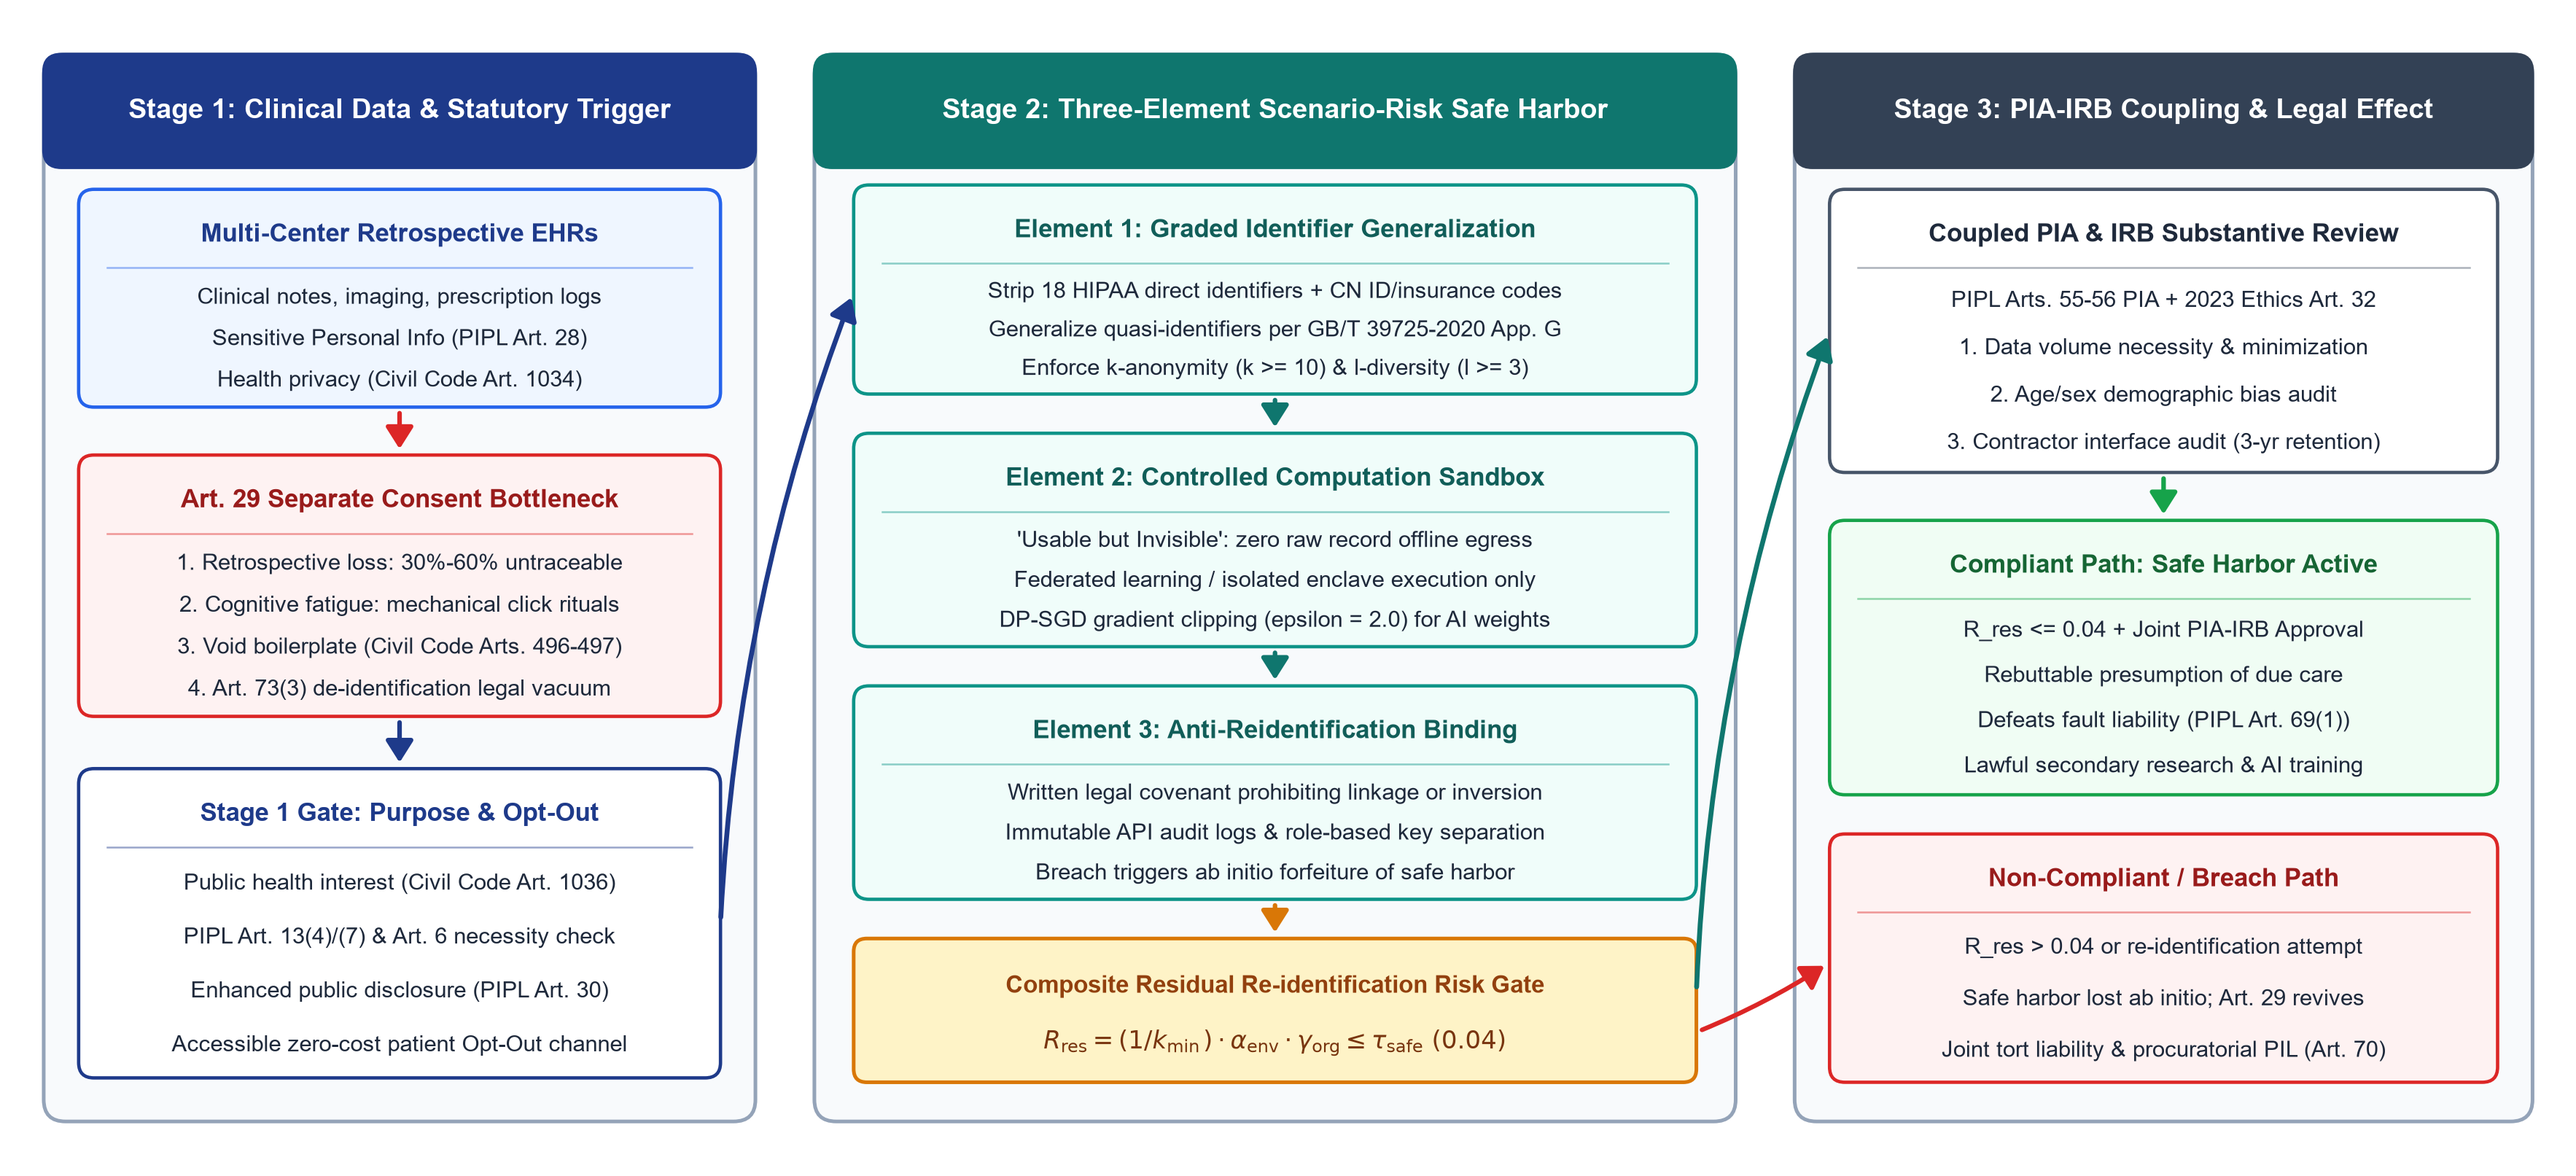
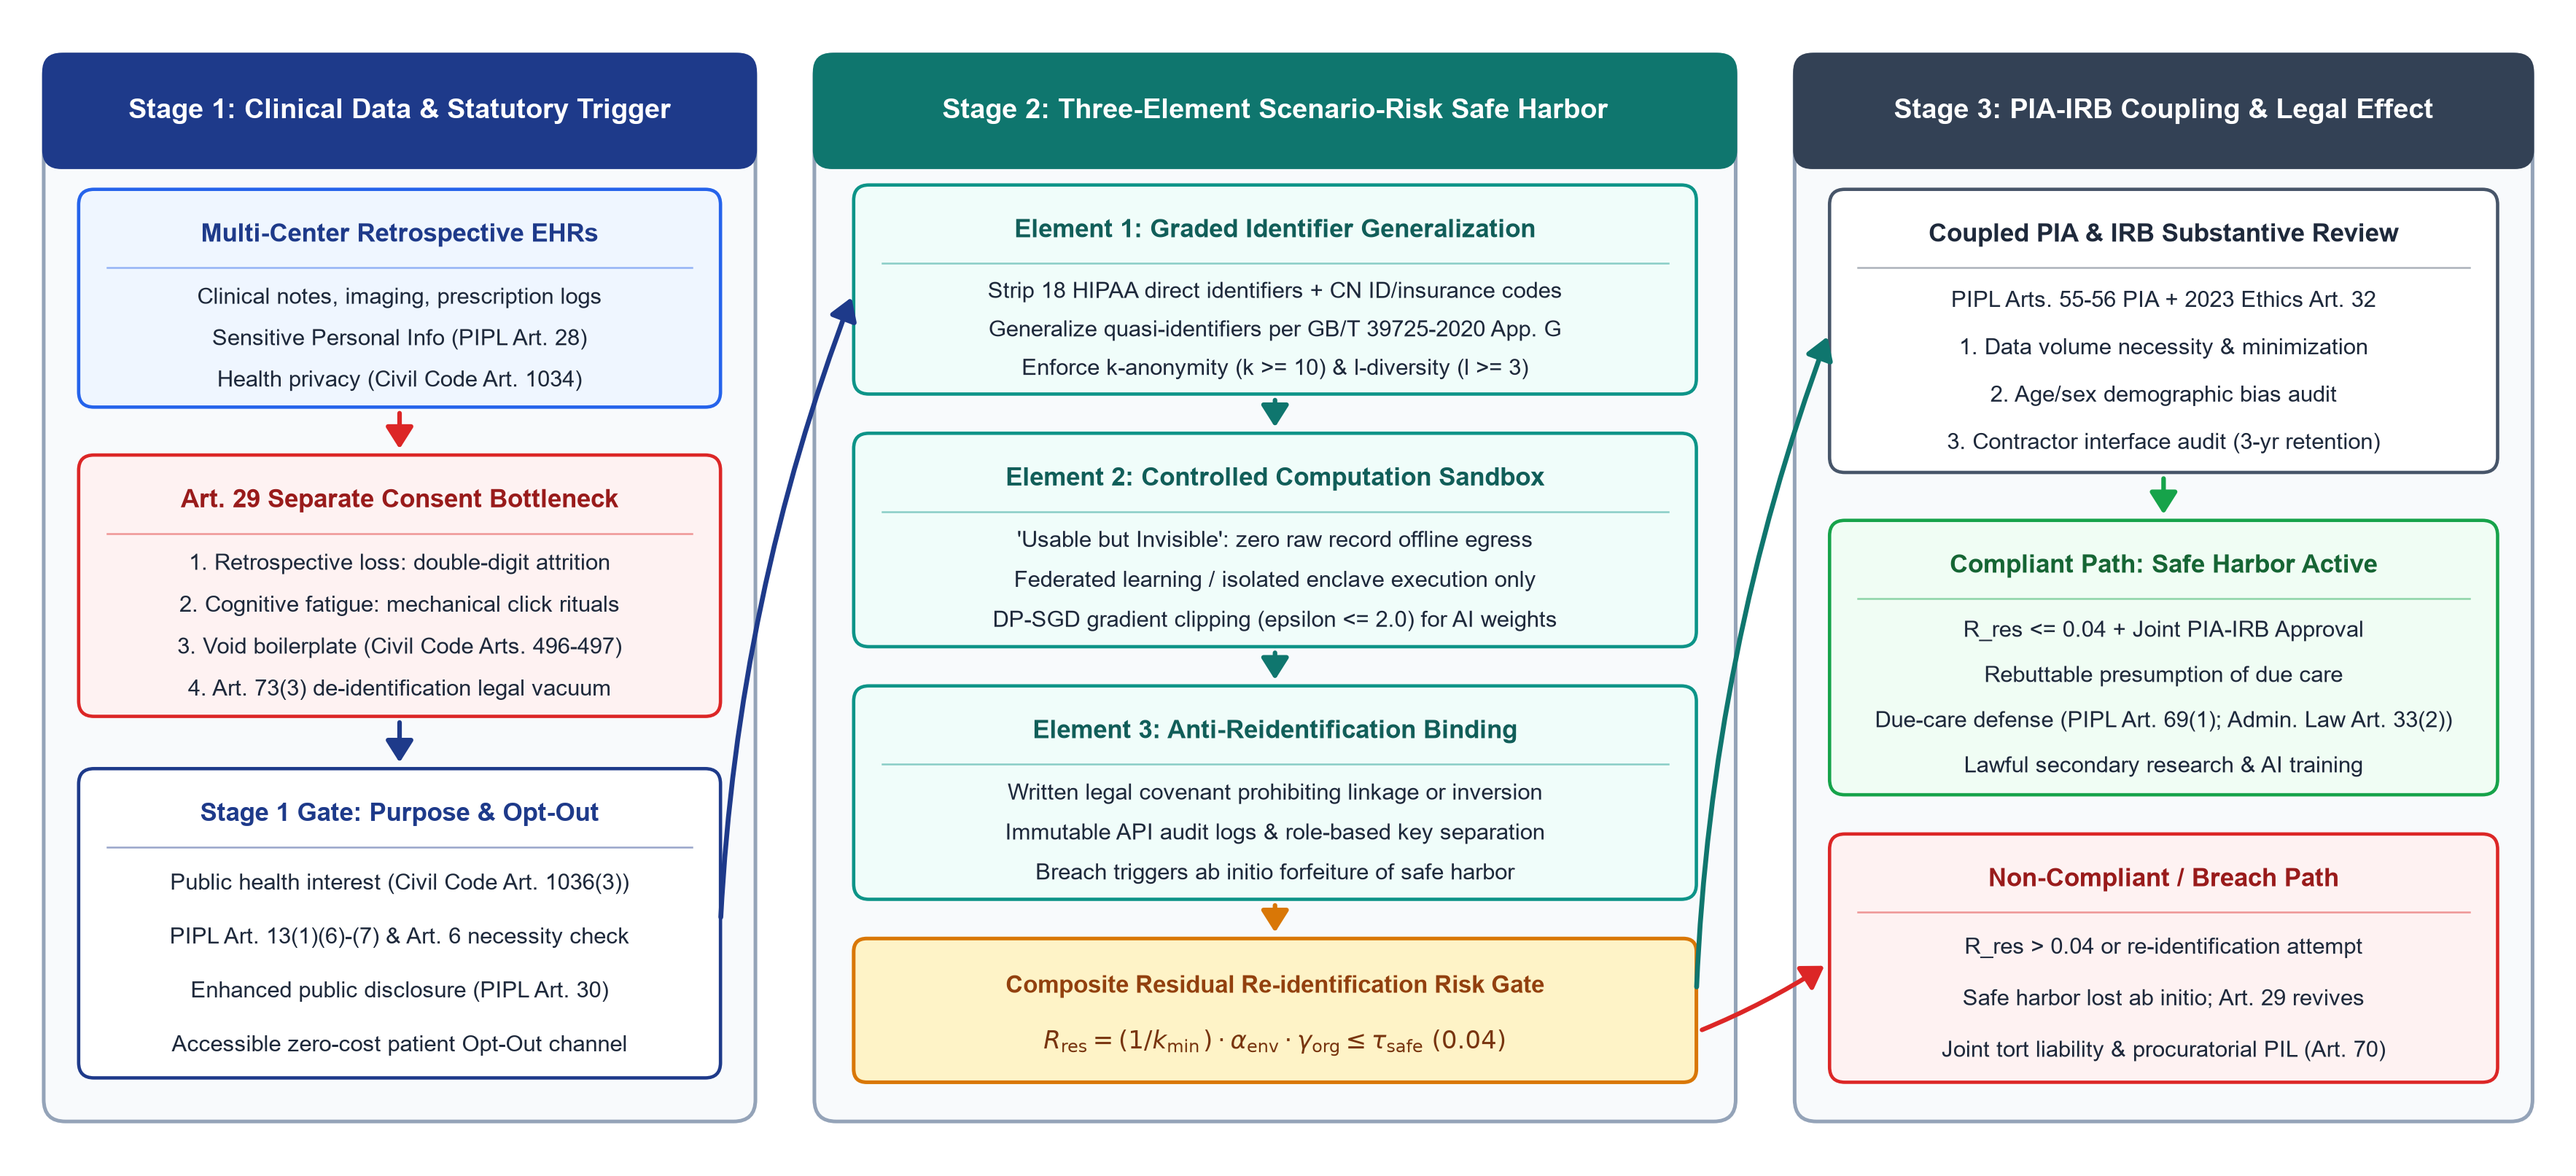
docs: synchronize architecture figure and clean release documentation

diff --git a/benchmark_uci_diabetes.py b/benchmark_uci_diabetes.py
@@ -1107,11 +1107,11 @@ def export_benchmark_csv(rows: list[dict], csv_path: str) -> None:
 
 
 def assert_clean_figure_texts(texts: list[str]) -> None:
-    """Ensure zero Chinese characters and zero em/en/double dashes in all visible figure text."""
+    """Validate ASCII typography for publication figure labels."""
     forbidden = re.compile(r"[\u4e00-\u9fff\u2013\u2014\u2015]|--")
     for txt in texts:
         if forbidden.search(txt):
-            raise ValueError(f"Forbidden character or dash in figure text: {txt!r}")
+            raise ValueError(f"Non-ASCII or invalid label character in figure text: {txt!r}")
 
 
 def generate_figure2_from_csv(csv_path: str) -> None:
@@ -1310,7 +1310,7 @@ def generate_figure2_from_csv(csv_path: str) -> None:
         borderpad=0.35, labelspacing=0.25,
     )
 
-    # Verify zero Chinese characters & zero em/en/double dashes in visible text
+    # Validate figure label typography
     all_texts = (
         [ax1.get_title(), ax1.get_ylabel(), ax1_r.get_ylabel()]
         + [ax2.get_title(), ax2.get_ylabel(), ax2_r.get_ylabel()]

diff --git a/README.md b/README.md
@@ -4,8 +4,8 @@
 ### Open-Source Reproducibility Suite for Academic Research
 
 [![Release](https://img.shields.io/badge/Release-v1.2.0-blue.svg?style=flat-square)](#version-history)
-[![Target Venue](https://img.shields.io/badge/Target%20Venue-ICBAR%202026-1f6feb.svg?style=flat-square)](https://www.ais.cn/attendees/index/2ER6F3)
-[![Status](https://img.shields.io/badge/Status-Under%20Revision-success.svg?style=flat-square)](#)
+[![Target Venue](https://img.shields.io/badge/Target%20Venue-ICBAR%202026-1f6feb.svg?style=flat-square)](https://www.icbar.net/)
+[![Status](https://img.shields.io/badge/Status-Active%20Release-success.svg?style=flat-square)](#)
 [![Python](https://img.shields.io/badge/Python-3.8%2B-blue.svg?style=flat-square)](https://www.python.org/)
 [![License: MIT](https://img.shields.io/badge/Code%20License-MIT-yellow.svg?style=flat-square)](LICENSE)
 [![Data: CC BY 4.0](https://img.shields.io/badge/Data%20License-CC%20BY%204.0-lightgrey.svg?style=flat-square)](https://creativecommons.org/licenses/by/4.0/)
@@ -25,13 +25,13 @@
 <a name="version-history"></a>
 ## 🚀 Version History & Academic Release Notes
 
-This repository strictly adheres to reproducible research principles. Versions correspond directly to manuscript iterations:
+This repository provides the open-source simulation and empirical benchmark suite for our study:
 
 | Version | Status | Key Characteristics & Methodology |
 |:---:|:---:|:---|
-| [**v1.0.0**](https://github.com/jhuang-edu/icbar-2026-safe-harbor-simulation/releases/tag/v1.0.0) | Archived Snapshot | **Official reproducible baseline snapshot for Paper v2 (submitted).** Matches all numerical and graphical results in the initial revision manuscript. |
+| [**v1.0.0**](https://github.com/jhuang-edu/icbar-2026-safe-harbor-simulation/releases/tag/v1.0.0) | Archived Snapshot | **Initial baseline simulation snapshot:** Parameter grid sweep, chain-rule residual risk formalization ($R_{\mathrm{res}} = 1.80\%$ baseline), and 10,000-draw Monte Carlo perturbation analysis. |
 | [**v1.1.0**](https://github.com/jhuang-edu/icbar-2026-safe-harbor-simulation/releases/tag/v1.1.0) | Archived Snapshot | **Methodological hardening & decoupled criteria release:**<br>1. **IEEE 754 Precision Fix**: Implemented exact decimal evaluation for $\alpha \times \gamma \le \tau \times k$. In the 315-point grid, only **one single edge-case** (`k=5, alpha=0.20, gamma=1.00`) changes evaluation from `False` to `True` (exactly equals 4.00%).<br>2. **Decoupled Governance Evaluation**: Disentangled pure numeric threshold (`meets_risk_threshold`) from statutory triad criteria (`framework_requirements_status`). For example, $k=5$ yields $3.60\% \le 4.0\%$ (numeric pass), but fails statutory criteria because $k < 10$.<br>3. **Reproducible Stress Testing**: Introduced environmental degradation and organizational erosion stress scenarios with analytical safety margins $\alpha_{\mathrm{crit}} = \frac{\tau \cdot k}{\gamma}$.<br>4. **Statistical Rigor**: Explicitly documented sampling distribution as Clipped Normal with optional Truncated Normal support; updated visualizations to reflect research-defined thresholds. |
-| [**v1.2.0**](https://github.com/jhuang-edu/icbar-2026-safe-harbor-simulation/releases/tag/v1.2.0) | Current Release | **Official reproducible release for Paper v4 (ICBAR 2026 Revised Submission):**<br>1. **UCI Diabetes 130-US Empirical Benchmark (`benchmark_uci_diabetes.py`)**: End-to-end leakage-free 5-seed (`GroupShuffleSplit`, seeds 42 to 46) evaluation on 101,766 encounters / 71,518 patients covering E1 (6-QI Mondrian $(k, l)$-anonymity) and E2 (per-sample L2-clipped DP-SGD with log-domain RDP accounting + Yeom MIA defense), exporting `data/uci_diabetes_benchmark.csv` and `figures/figure2_uci_benchmark.png`.<br>2. **Conjunctive Monte Carlo Compliance Fix**: Fixed `sensitivity_analysis.py` (`config.gamma_vals` scope & dual conjunctive $k_{\min} \ge 10 \land R_{\mathrm{res}} \le 0.04$ evaluation yielding `75.08%`, exported with `meets_minimum_k` and `passes_safe_harbor` columns).<br>3. **Reference & Figure Hygiene**: Retired obsolete synthetic diagram, corrected Ref. [12] GDPR official EUR-Lex ELI link, and aligned all Table 3 / Figure 2 metrics 100% programmatically from CSV. |
+| [**v1.2.0**](https://github.com/jhuang-edu/icbar-2026-safe-harbor-simulation/releases/tag/v1.2.0) | Current Release | **UCI Diabetes 130-US empirical benchmark & conjunctive Monte Carlo suite:**<br>1. **UCI Diabetes 130-US Empirical Benchmark (`benchmark_uci_diabetes.py`)**: End-to-end leakage-free 5-seed (`GroupShuffleSplit`, seeds 42 to 46) evaluation on 101,766 encounters / 71,518 patients covering E1 (6-QI Mondrian $(k, l)$-anonymity) and E2 (per-sample L2-clipped DP-SGD with log-domain RDP accounting + Yeom MIA defense), exporting `data/uci_diabetes_benchmark.csv` and `figures/figure2_uci_benchmark.png`.<br>2. **Conjunctive Monte Carlo Evaluation**: Updated `sensitivity_analysis.py` to evaluate the dual conjunctive gate ($k_{\min} \ge 10 \land R_{\mathrm{res}} \le 0.04$, yielding `75.08%` compliance across 10,000 draws, exported with `meets_minimum_k` and `passes_safe_harbor` columns).<br>3. **Architecture & Reference Alignment**: Synchronized `figure1_safe_harbor_architecture.png` with statutory provisions and updated official EUR-Lex ELI reference links. |
 
 ---
 
@@ -40,7 +40,7 @@ This repository strictly adheres to reproducible research principles. Versions c
 
 ### 1. Research Overview & Methodological Scope
 - **Paper Title**: *A Computational Scenario-Risk Safe Harbor for Privacy-Preserving Health Data Governance and AI Training under China's Personal Information Protection Law*
-- **Current Status**: Under Revision / Peer Review (Target Venue: ICBAR 2026, proceedings scheduled with IOS Press *FAIA*).
+- **Target Venue**: ICBAR 2026 (Proceedings Series: IOS Press *Frontiers in Artificial Intelligence and Applications*, FAIA).
 - **Core Focus**: Addressing the operational challenges of sensitive personal data "separate consent" requirements under Articles 28 and 29 of China's PIPL for retrospective clinical research and medical AI training, proposing a three-element scenario-risk safe harbor framework.
 - **Methodological Scope & Scenario Assumptions**:
   - The parameter $\alpha_{\mathrm{env}}=0.25$ is stipulated as an illustrative low-exposure scenario for zero-egress federated sandboxes; estimating combined real-world exposure requires empirical data on attack pathway frequency and overlap.
@@ -62,7 +62,7 @@ This repository strictly adheres to reproducible research principles. Versions c
 #### Figure 2: Empirical Evaluation on UCI Diabetes 130-US (Mondrian (k, l) Generalization & DP-SGD/MIA Defense)
 <img src="figures/figure2_uci_benchmark.png" alt="Figure 2 UCI Diabetes Empirical Benchmark" width="850"/>
 
-> *Automated Reproducibility Note*: Figure 2 is generated automatically by `benchmark_uci_diabetes.py` from `data/uci_diabetes_benchmark.csv` on the UCI Diabetes 130-US dataset (ID=296; 101,766 encounters across 71,518 unique patients, patient-grouped 80/20 splits over 5 seeds `42..46`). All quantitative metrics reported in the manuscript are parsed directly from `data/uci_diabetes_benchmark.csv` without manual transcription.
+> *Reproducibility Note*: Figure 2 is plotted directly by `benchmark_uci_diabetes.py` from `data/uci_diabetes_benchmark.csv` on the UCI Diabetes 130-US dataset (ID=296; 101,766 encounters across 71,518 unique patients, patient-grouped 80/20 splits over 5 seeds `42..46`).
 
 | Experiment | Setting | $k_{\min}$ | $l_{\min}$ | $\mathrm{NCP}$ (mean $\pm$ std) | $R_{\mathrm{res}}$ | Main ROC-AUC | Local ROC-AUC ($N=2\text{k}$) | Local MIA $\mathrm{Adv}_{\max}$ | Local Yeom Mean Adv | Safe Harbor Gate |
 |---|---|---:|---:|---:|---:|---:|---:|---:|---:|:---:|
@@ -145,7 +145,7 @@ python benchmark_uci_diabetes.py
 
 ### 1. 论文与研究背景
 - **论文题目**：《个人信息保护法》下隐私保护健康数据治理与AI训练的可计算场景风险安全港研究
-- **当前状态**：审稿返修中（拟投递 ICBAR 2026，拟收录于 IOS Press *FAIA* 论文集）。
+- **目标会议**：ICBAR 2026（IOS Press *FAIA* 丛书）。
 - **学术定位**：针对我国《个人信息保护法》第 28、29 条敏感个人信息“单独同意”在回顾性医学科研与医疗大模型训练中的实务困境，构建基于国标 GB/T 39725-2020（附录 G）、受控联邦差分隐私沙箱与法律级联承诺的三要件场景风险安全港。
 - **先验假设与场景设定声明**：
   - 环境暴露系数（$\alpha_{\mathrm{env}}=0.25$）与组织控制系数（$\gamma_{\mathrm{org}}=0.72$）属于用于模拟受控零出域沙箱的情景假设（Scenario Assumptions），精确量化有赖于后续对泄漏路径重叠度与发生频次的实证数据；
@@ -161,7 +161,7 @@ python benchmark_uci_diabetes.py
 3. **v1.2.0 核心更新（蒙特卡洛双重合取 + UCI 101,766 条实测闭环）**：
    - **蒙特卡洛双重合取修复**：在 10,000 次蒙特卡洛抽样中同时检验 $k_{\min} \ge 10$ 与 $R_{\mathrm{res}} \le 0.04$，真实双重合取达标率为 `75.08%`（见 `data/monte_carlo_results.csv`）；
    - **UCI Diabetes 130-US 真实临床实测（`benchmark_uci_diabetes.py`）**：接入 101,766 条就诊记录 / 71,518 名患者（5 折患者分组防泄露），完成 **E1**（6 准标识符 Mondrian $(k, l)$ 泛化，$k=10, l=3$ 精确复现 `1.80%` 基线）与 **E2**（逐样本 L2 裁剪 DP-SGD 与 Yeom 成员推理攻防，全队列最大绝对 AUC 降幅 `0.0177` 远低于 `0.05` 红线，局部高维子队列 $N=2,000$ 上局部 AUC 从 `0.6359` 降至 `0.5239` 且 Yeom 均值攻击优势从 `0.1566` 严格单调降至 `0.0187`）；
-   - **文献与自动化质检**：清理旧版废弃示意图表，修正 GDPR 官方 EUR-Lex 链接，`test_sensitivity.py` 8/8 单元测试全绿。
+   - **代码与测试套件**：同步架构图与官方文献链接，`test_sensitivity.py` 8/8 单元测试通过。
 
 ---
 
@@ -170,7 +170,7 @@ python benchmark_uci_diabetes.py
 
 ### 1. 論文情報と研究概要
 - **論文題目**: 中国個人情報保護法下におけるプライバシー保護医療健康データガバナンスおよびAI訓練のための計算可能なシナリオリスク・セーフハーバー研究
-- **現在のステータス**: 査読改訂中（ICBAR 2026 投稿予定、IOS Press *FAIA* 収録予定）。
+- **対象会議**: ICBAR 2026（IOS Press *FAIA* シリーズ）。
 - **目的**: プライバシー保護工学と法解釈論を融合させた「シナリオリスク・セーフハーバー」の数理解析シミュレーションです。
 - **連絡先**: `3588@duck.com`
 
@@ -201,5 +201,5 @@ icbar-2026-safe-harbor-simulation/
 ## Citation, License & Contact
 - Code: [MIT License](LICENSE)
 - Data and Documentation: [Creative Commons Attribution 4.0 International (CC BY 4.0)](https://creativecommons.org/licenses/by/4.0/)
-- Citation: Please cite as "Simulation and Sensitivity Suite for Scenario-Risk Safe Harbor (Under Review)".
+- Citation: Please cite as "Computational Scenario-Risk Safe Harbor Simulation and Empirical Benchmark Suite (ICBAR 2026)".
 - Research Inquiries: `3588@duck.com`

diff --git a/REFERENCES.md b/REFERENCES.md
@@ -3,7 +3,7 @@
 This repository provides the full, annotated bibliography of the 25 core regulatory statutes, judicial precedents, technical standards, and foundational academic literature referenced in the study, along with the primary clinical benchmark dataset citation:
 
 > **Paper**: *A Computational Scenario-Risk Safe Harbor for Privacy-Preserving Health Data Governance and AI Training under China's Personal Information Protection Law*  
-> **Status**: Under Revision (Target Venue: ICBAR 2026, proceedings scheduled with IOS Press *FAIA*)
+> **Venue**: ICBAR 2026 (Proceedings Series: IOS Press *Frontiers in Artificial Intelligence and Applications*, FAIA)
 
 All items are categorized by domain with active persistent identifiers (DOIs, official government gazettes, and official judicial bulletins) for seamless independent auditing and reproducibility.
 
